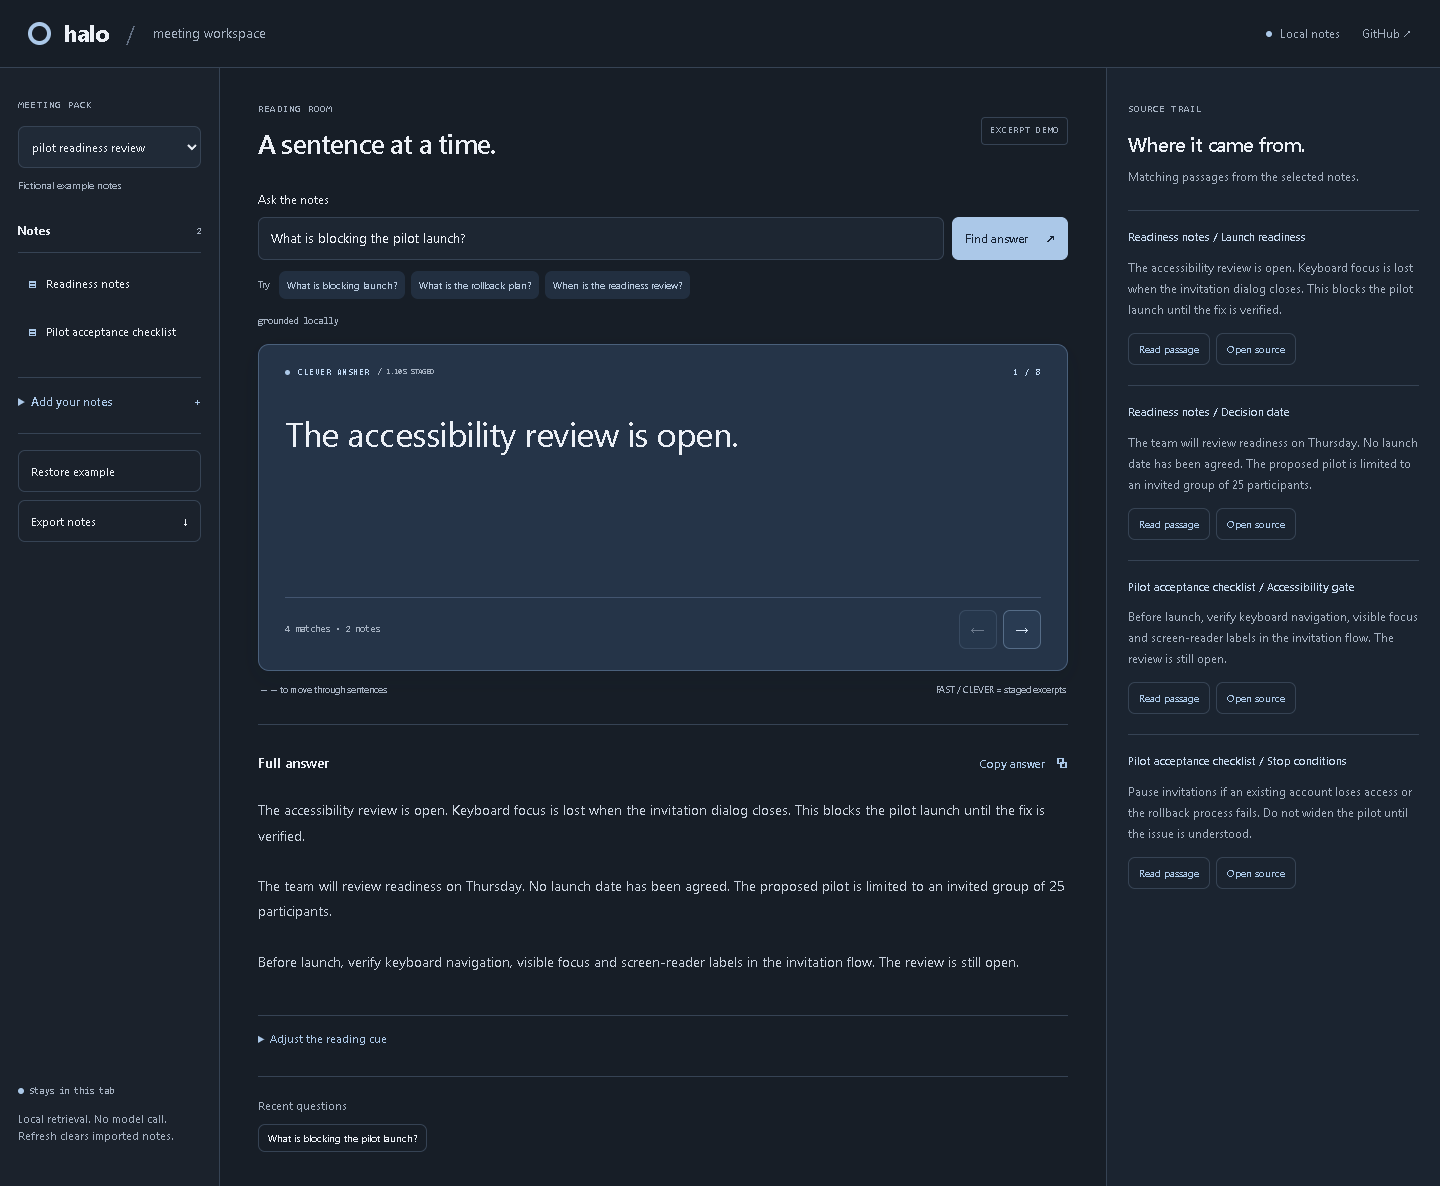
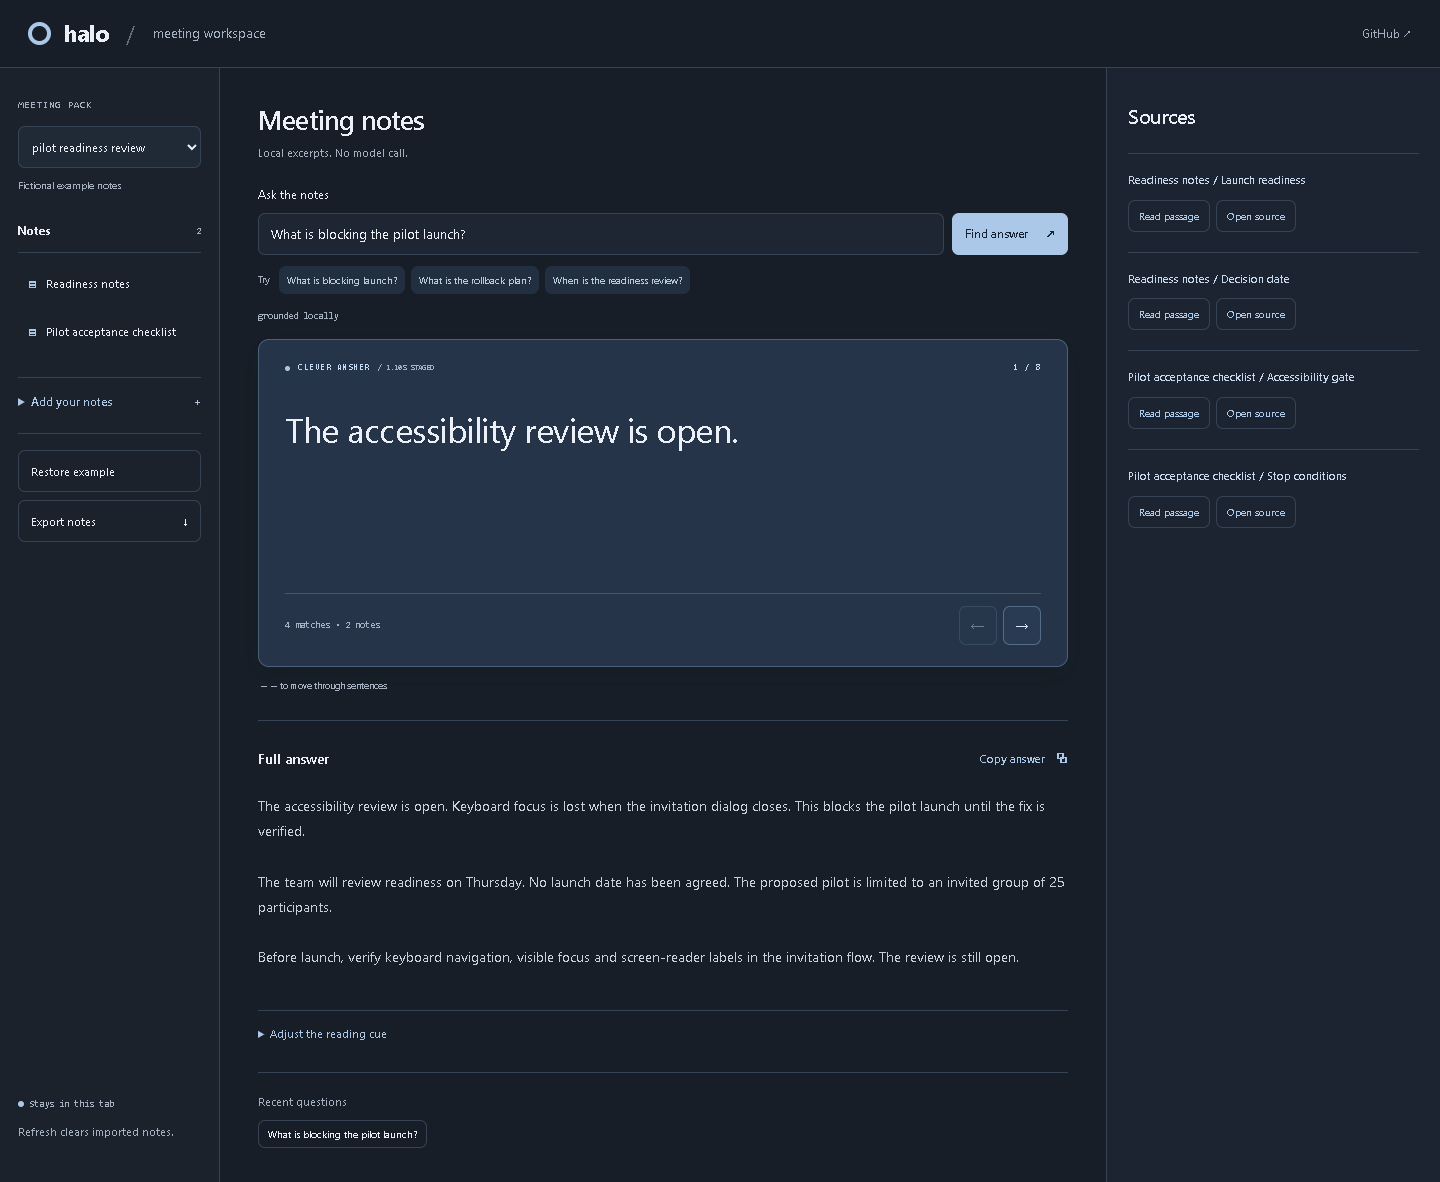
Simplify workspace copy and expand source excerpts only when requested

diff --git a/examples/portfolio/index.html b/examples/portfolio/index.html
@@ -1,8 +1,8 @@
 <!doctype html><html lang="en"><head><meta charset="utf-8"><meta name="viewport" content="width=device-width,initial-scale=1"><meta name="theme-color" content="#171e27"><title>HALO | Meeting workspace</title><link rel="icon" href="favicon.svg" type="image/svg+xml"><link rel="stylesheet" href="style.css"></head><body>
-<header class="app-header"><a class="brand" href="https://lolstar123.github.io/just-a-little-further/"><span class="halo-mark" aria-hidden="true"></span>halo<span class="brand-divider">/</span><span class="brand-context">meeting workspace</span></a><div class="header-links"><span class="local-badge">Local notes</span><a href="https://github.com/LolStar123/halo">GitHub ↗</a></div></header>
-<main class="workspace"><aside class="meeting-rail" aria-label="Meeting notes"><p class="eyebrow">MEETING PACK</p><label for="pack" class="sr-only">Select meeting pack</label><select id="pack"></select><p class="pack-caption">Fictional example notes</p><div class="notes-heading"><h2>Notes</h2><span id="document-count"></span></div><div id="documents"></div><details id="note-editor"><summary>Add your notes <span aria-hidden="true">+</span></summary><label>Title<input id="note-title" value="My meeting notes"></label><label>Notes<textarea id="note-text" rows="6" placeholder="Paste meeting notes..."></textarea></label><button id="add-note">Add notes</button><label class="upload-label">Load text files<input id="files" type="file" multiple accept=".txt,.md,text/plain,text/markdown"></label><p id="note-status" role="status"></p></details><div class="session-tools"><button id="reset">Restore example</button><button id="export">Export notes <span aria-hidden="true">↓</span></button></div><div class="rail-footer"><span class="local-dot"></span> Stays in this tab<p>Local retrieval. No model call.<br>Refresh clears imported notes.</p></div></aside>
-<section class="reading-workspace" aria-labelledby="page-title"><div class="workspace-heading"><div><p class="eyebrow">READING ROOM</p><h1 id="page-title">A sentence at a time.</h1></div><span class="workspace-mode">EXCERPT DEMO</span></div><section class="question-panel"><form id="question-form"><label for="question">Ask the notes</label><div class="question-input"><input id="question" placeholder="What is blocking launch?" required maxlength="2000"><button type="submit" class="primary">Find answer <span aria-hidden="true">↗</span></button></div><div class="quick-prompts"><span>Try</span><div id="quick-prompts"></div></div></form></section><p id="status" role="status" aria-live="polite"></p>
-<section class="reader" aria-label="Current reading cue" tabindex="0"><div class="reader-top"><span class="stage-label"><span class="stage-dot"></span><span id="answer-stage">Source passage</span><span id="latency"></span></span><span id="position"></span></div><p id="sentence" aria-live="polite"></p><div class="reader-bottom"><span id="grounding"></span><div class="reader-controls"><button id="back" aria-label="Previous sentence">←</button><button id="next" aria-label="Next sentence">→</button></div></div></section><div class="reading-hint"><span>← → to move through sentences</span><span>FAST / CLEVER = staged excerpts</span></div>
+<header class="app-header"><a class="brand" href="https://lolstar123.github.io/just-a-little-further/"><span class="halo-mark" aria-hidden="true"></span>halo<span class="brand-divider">/</span><span class="brand-context">meeting workspace</span></a><div class="header-links"><a href="https://github.com/LolStar123/halo">GitHub ↗</a></div></header>
+<main class="workspace"><aside class="meeting-rail" aria-label="Meeting notes"><p class="eyebrow">MEETING PACK</p><label for="pack" class="sr-only">Select meeting pack</label><select id="pack"></select><p class="pack-caption">Fictional example notes</p><div class="notes-heading"><h2>Notes</h2><span id="document-count"></span></div><div id="documents"></div><details id="note-editor"><summary>Add your notes <span aria-hidden="true">+</span></summary><label>Title<input id="note-title" value="My meeting notes"></label><label>Notes<textarea id="note-text" rows="6" placeholder="Paste meeting notes..."></textarea></label><button id="add-note">Add notes</button><label class="upload-label">Load text files<input id="files" type="file" multiple accept=".txt,.md,text/plain,text/markdown"></label><p id="note-status" role="status"></p></details><div class="session-tools"><button id="reset">Restore example</button><button id="export">Export notes <span aria-hidden="true">↓</span></button></div><div class="rail-footer"><span class="local-dot"></span> Stays in this tab<p>Refresh clears imported notes.</p></div></aside>
+<section class="reading-workspace" aria-labelledby="page-title"><div class="workspace-heading"><h1 id="page-title">Meeting notes</h1></div><p class="local-boundary">Local excerpts. No model call.</p><section class="question-panel"><form id="question-form"><label for="question">Ask the notes</label><div class="question-input"><input id="question" placeholder="What is blocking launch?" required maxlength="2000"><button type="submit" class="primary">Find answer <span aria-hidden="true">↗</span></button></div><div class="quick-prompts"><span>Try</span><div id="quick-prompts"></div></div></form></section><p id="status" role="status" aria-live="polite"></p>
+<section class="reader" aria-label="Current reading cue" tabindex="0"><div class="reader-top"><span class="stage-label"><span class="stage-dot"></span><span id="answer-stage">Source passage</span><span id="latency"></span></span><span id="position"></span></div><p id="sentence" aria-live="polite"></p><div class="reader-bottom"><span id="grounding"></span><div class="reader-controls"><button id="back" aria-label="Previous sentence">←</button><button id="next" aria-label="Next sentence">→</button></div></div></section><div class="reading-hint"><span>← → to move through sentences</span></div>
 <section class="full" aria-labelledby="full-title"><div class="section-title"><h2 id="full-title">Full answer</h2><button id="copy-answer">Copy answer <span aria-hidden="true">⧉</span></button></div><p id="full-answer"></p><p id="copy-status" role="status"></p><details class="cue-editor"><summary>Adjust the reading cue</summary><label>Type size<input id="size" type="range" min="24" max="46" value="34"></label><label for="cue">Reading text</label><textarea id="cue" rows="6"></textarea><button id="apply-cue">Use edited answer</button></details></section><section class="history-section" aria-labelledby="history-title"><h2 id="history-title">Recent questions</h2><div id="history"></div></section></section>
-<aside class="source-rail" aria-labelledby="evidence-title"><div class="source-heading"><p class="eyebrow">SOURCE TRAIL</p><h2 id="evidence-title">Where it came from.</h2><p>Matching passages from the selected notes.</p></div><div id="evidence"></div></aside></main>
+<aside class="source-rail" aria-labelledby="evidence-title"><div class="source-heading"><h2 id="evidence-title">Sources</h2></div><div id="evidence"></div></aside></main>
 <dialog id="source" aria-labelledby="source-title"><div class="dialog-top"><span class="eyebrow">SOURCE NOTE</span><button id="close-source">Close <span aria-hidden="true">×</span></button></div><h2 id="source-title"></h2><pre id="source-text"></pre></dialog><script type="module" src="app.mjs"></script></body></html>

diff --git a/examples/portfolio/style.css b/examples/portfolio/style.css
@@ -270,7 +270,12 @@ label input,label textarea {
     gap:16px;
     justify-content:space-between;
     align-items:center;
-    margin-bottom:30px
+    margin-bottom:8px
+}
+.local-boundary {
+    margin:0 0 24px;
+    color:var(--muted);
+    font-size:11px;
 }
 .workspace-heading .eyebrow {
     margin-bottom:9px
@@ -529,7 +534,13 @@ h1 {
     font-weight:500;
     letter-spacing:-.5px;
     line-height:1.35;
-    margin:0 0 10px
+    margin:0 0 24px
+}
+.passage-text {
+    display:none;
+}
+.passage[data-expanded=true] .passage-text {
+    display:block;
 }
 .source-heading>p:last-child {
     font-size:12px;
@@ -735,7 +746,7 @@ dialog pre {
         padding:26px 17px
     }
     .workspace-heading {
-        margin-bottom:24px
+        margin-bottom:8px
     }
     h1 {
         font-size:25px

diff --git a/tools/browser_audit.py b/tools/browser_audit.py
@@ -25,6 +25,12 @@ try:
         assert 'ms local' in page.locator('#latency').inner_text().lower()
         page.wait_for_function("window.__halo.stage === 'clever answer'")
         assert page.locator('#latency').inner_text().strip().lower() == '/ 1.10s staged'
+        assert page.locator('.passage-text').first.is_hidden()
+        page.locator('[data-read]').first.click()
+        assert page.locator('.passage-text').first.is_visible()
+        assert page.locator('[data-read]').first.get_attribute('aria-expanded')=='true'
+        page.locator('[data-read]').first.click()
+        assert page.locator('.passage-text').first.is_hidden()
         page.locator('[data-prompt]').nth(0).click()
         page.locator('[data-prompt]').nth(1).click()
         page.locator('[data-prompt]').nth(2).click()
@@ -101,6 +107,10 @@ try:
         page.screenshot(path=str(ROOT/'output'/'playwright'/'mobile.png'),full_page=True)
         assert page.evaluate('document.documentElement.scrollWidth<=innerWidth+1'),'mobile overflow'
         assert page.locator('#sentence').is_visible()
+        assert page.locator('.passage-text').first.is_hidden()
+        page.locator('[data-read]').first.click()
+        assert page.locator('.passage-text').first.is_visible()
+        page.locator('[data-read]').first.click()
         assert page.evaluate("getComputedStyle(document.querySelector('#copy-answer')).transitionDuration")=='0s'
         failed=browser.new_page()
         failed.route('**/data/meetings.json',lambda route:route.fulfill(status=503,body='unavailable'))

diff --git a/DESIGN.md b/DESIGN.md
@@ -18,9 +18,9 @@ The earlier narrow demo collapsed both evidence and full answer. The redesign pu
 
 ## Interaction and truth
 
-Four finite fictional packs supply three context-specific prompts each. Browser retrieval returns direct note excerpts. FAST/CLEVER labels demonstrate a staged visual handoff with a fixed 1.10-second delay, not model inference. The UI says local notes and excerpt demo; the reading hint states what the stage labels mean.
+Four finite fictional packs supply three context-specific prompts each. Browser retrieval returns direct note excerpts. FAST/CLEVER labels demonstrate a staged visual handoff with a fixed 1.10-second delay, not model inference. One visible line states Local excerpts. No model call. Meeting notes and Sources are direct headings without stacked promotional copy; timings mark the staged handoff.
 
-The full answer and matching sources remain visible. Read passage changes the cue; Open source opens the original text in a native dialog. Escape closes the dialog and focus returns to its trigger. Arrow keys navigate only outside text controls and dialogs. Copy uses the full answer and reports failure honestly.
+The full answer, source titles and source actions remain visible. Passage text stays collapsed until requested, avoiding a third copy of the answer on mobile. Read passage expands its excerpt and changes the cue; Open source opens the original text in a native dialog. Escape closes the dialog and focus returns to its trigger. Arrow keys navigate only outside text controls and dialogs. Copy uses the full answer and reports failure honestly.
 
 Editing a cue cancels the pending staged update and labels the text for checking. Unmatched queries clear sources and disable copy. Note and session limits keep retrieval bounded. A fixture-load failure disables dependent actions. Imported notes stay in memory and are cleared on refresh. No live microphone, screen capture or invented model controls appear in this browser build.
 

diff --git a/README.md b/README.md
@@ -13,7 +13,7 @@ Choose one of four fictional packs: pilot readiness, incident review, trading re
 The browser ranks passages locally. **FAST ANSWER** shows the first matching passage; after a staged 1.10-second delay, **CLEVER ANSWER** joins up to three matches. These labels demonstrate the desktop reading flow. The browser makes no model call, records no audio and captures no screen.
 
 - Read one sentence at a time with the arrow buttons or ← / → keys. Keyboard navigation pauses while typing or viewing a source.
-- **Copy answer** copies the complete answer. **Open source** shows the original note; Escape closes it.
+- **Copy answer** copies the complete answer. **Read passage** expands an excerpt and puts it in the reader. **Open source** shows the original note; Escape closes it.
 - An unmatched question produces an explicit empty state. The reader does not invent an answer.
 - **Adjust the reading cue** changes the text and type size. Edited text is marked for checking against the notes.
 - **Export notes** downloads the notes, current question and cue as Markdown.
